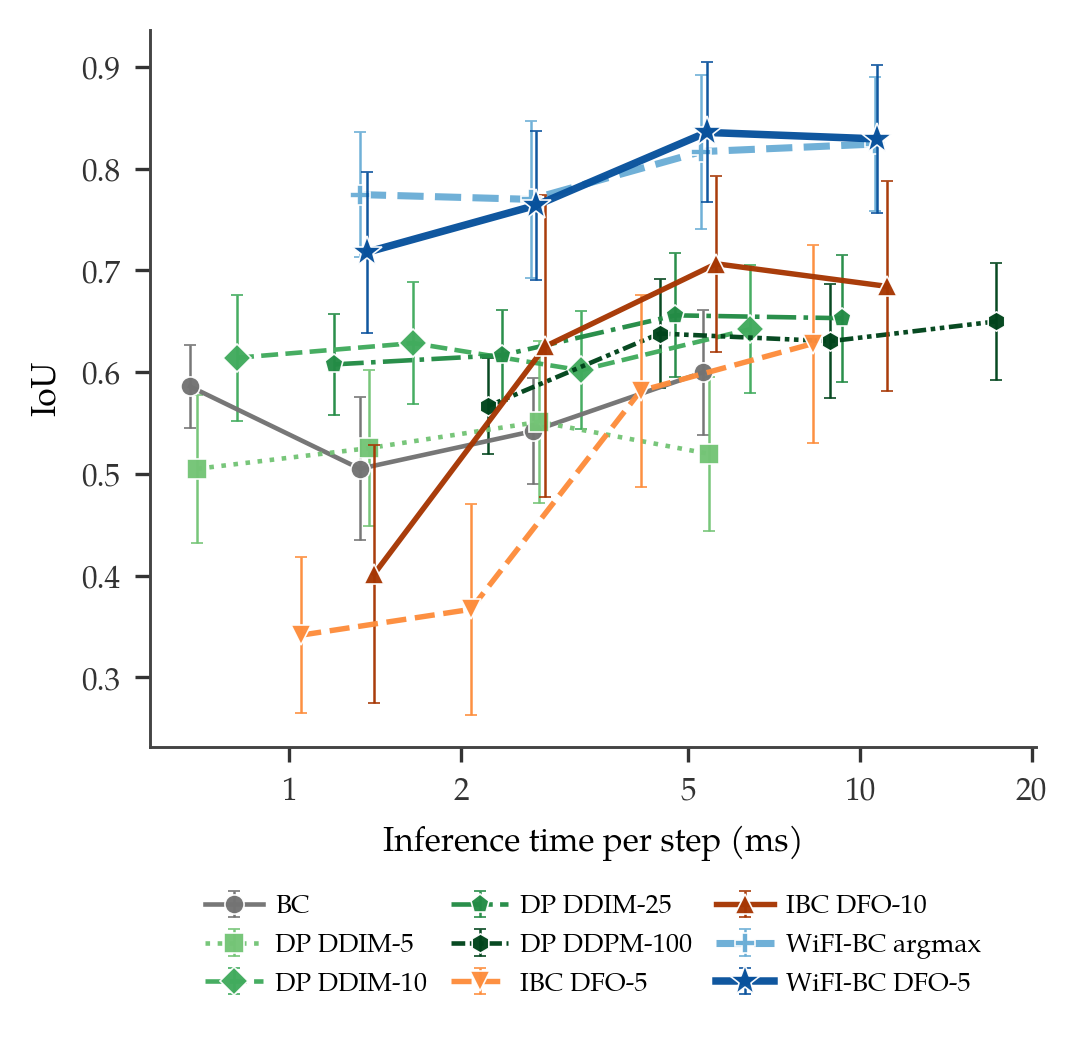
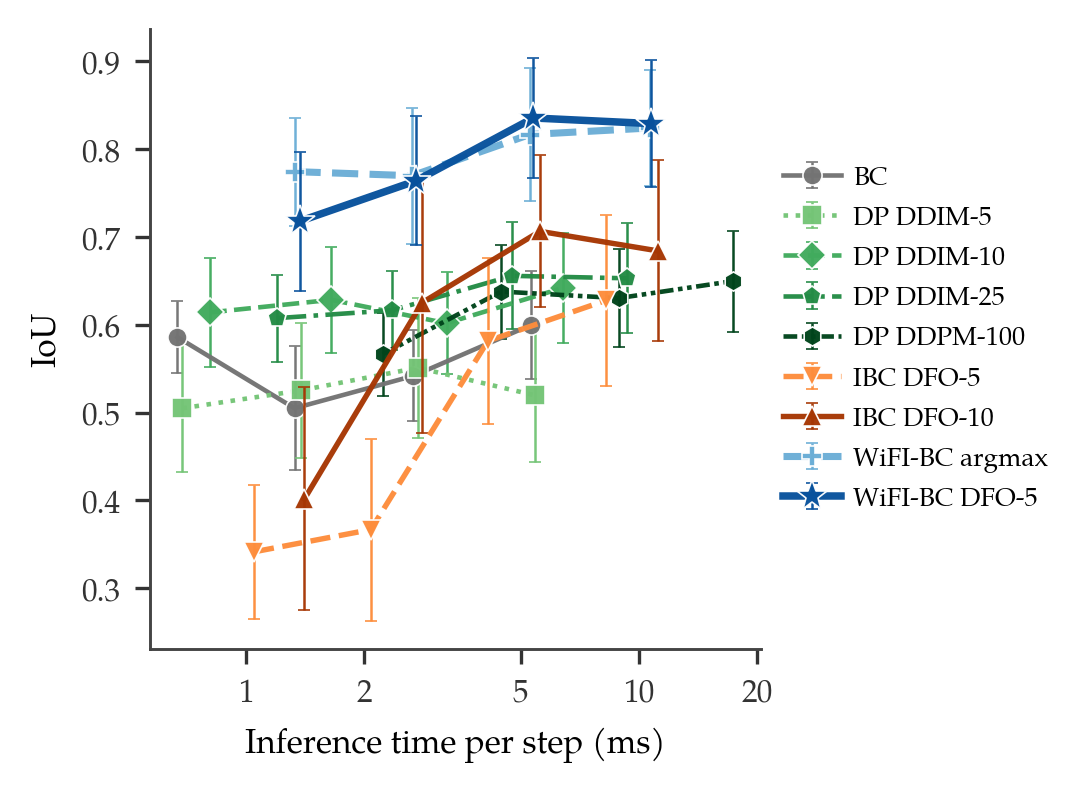
paper figures: Push-T horizon plot with the legend in one column to the right
Figure sized for a full column (3.5 in wide, 2.5 in tall) now that the legend no
longer sits below the axes.

diff --git a/scripts/paper_fig_pusht_horizon.py b/scripts/paper_fig_pusht_horizon.py
@@ -4,7 +4,8 @@ Recovered from the session that first drew figures/pusht_horizon_sweep (paper re
 commits f2f2a3f, 35b5514) and kept here so the figure can be regenerated. Colour
 encodes the method family, lightness and dash pattern the variant within it, so a
 family reads as one group while variants stay separable. Set in TeX Gyre Pagella
-(assets/fonts), as the published figure. No background grid.
+(assets/fonts), as the published figure. No background grid; the legend sits to the
+right of the axes in a single column, sized for a full column width (\linewidth).
 
     uv run python scripts/paper_fig_pusht_horizon.py --out results/paper_figures/pusht_horizon_sweep
 """
@@ -77,7 +78,8 @@ def main() -> int:
         "axes.labelcolor": "#000000", "pdf.fonttype": 42,
     })
 
-    fig, ax = plt.subplots(figsize=(3.45, 3.35))
+    # Column-wide (3.5 in) with the legend to the right of the axes, one entry per row.
+    fig, ax = plt.subplots(figsize=(3.5, 2.5))
     for k in ORDER:
         lab, col, ls, mk, lw, z = STYLE[k]
         pts = sorted(data[k])
@@ -100,9 +102,9 @@ def main() -> int:
     for s in ("top", "right"):
         ax.spines[s].set_visible(False)
     ax.tick_params(labelsize=7.5)
-    ax.legend(loc="upper center", bbox_to_anchor=(0.5, -0.19), ncol=3,
-              fontsize=6.3, frameon=False, handlelength=2.2, columnspacing=0.9,
-              handletextpad=0.45, borderaxespad=0.0)
+    ax.legend(loc="center left", bbox_to_anchor=(1.02, 0.5), ncol=1,
+              fontsize=6.3, frameon=False, handlelength=2.2,
+              handletextpad=0.45, borderaxespad=0.0, labelspacing=0.55)
 
     fig.tight_layout(pad=0.3)
     args.out.parent.mkdir(parents=True, exist_ok=True)
